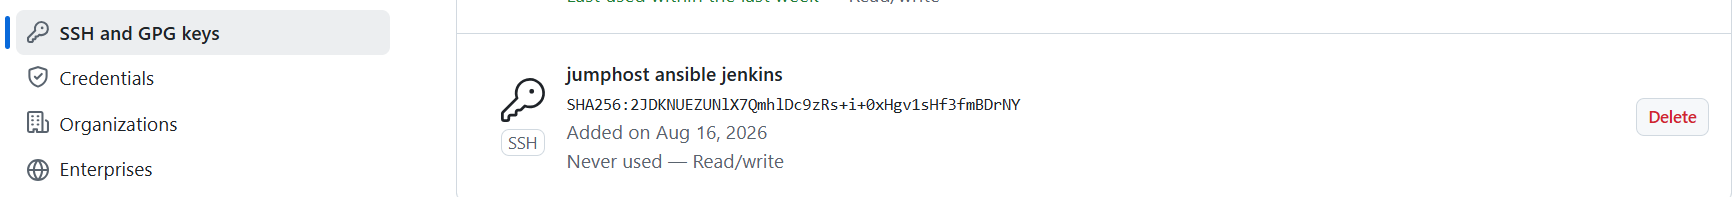
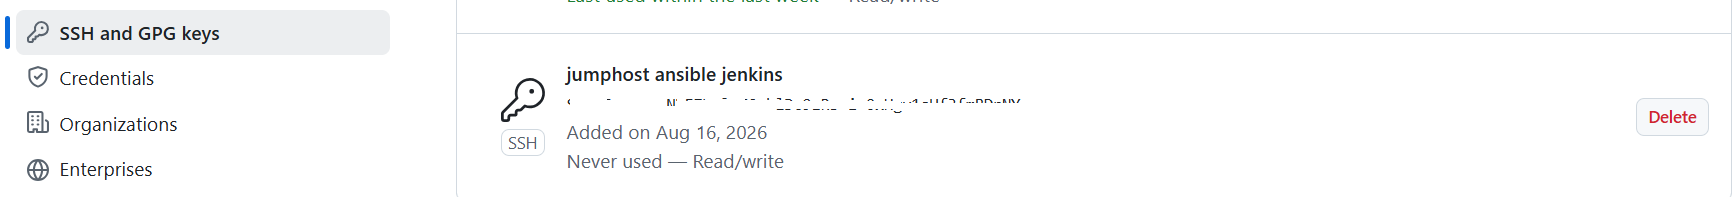
Step 2 and 3 ansible documentation

Changed region(s): [[0.3111, 0.4873, 0.591, 0.5787]]

diff --git a/project11-ansible-config-mgmt/project11-ansible-config-mgmt.md b/project11-ansible-config-mgmt/project11-ansible-config-mgmt.md
@@ -38,45 +38,102 @@ sudo ansible --version
 ![alt](images/3.png)
 
 >[!TIP]
->
+>When installing Ansible with apt or yum, you get the latest Ansible version available in your distribution’s repositories, which is often older than the current upstream release. In contrast, installing Ansible with pip usually gives you the latest stable version published on PyPI, unless you explicitly pin a version.
 
 
+4. Create a new Jenkins Item named ansible that archive the code change
+
+- Create a freestyle project named **ansible**
 
 ![alt](images/4.png)
-
+- Fill in the **Repository URL** and **Credentials**
 ![alt](images/5.png)
-
+- Create a webhook by filling the **Payload URL** , for the moment "Disable SSL verification
 ![alt](images/6.png)
-
+- Set the webhook to trigger ansible build
 ![alt](images/7.png)
-> [!NOTE]
+- Configure a Post-build action that archive all files(**).
+![alt](images/8.png)
+> [!NOTE] pay attention to use (**) as Files to Archive not (*)
 > 
+You will see the ansible item checked in green after the first build integration.
 ![alt](images/9.png)
 
-### Step2 Installing Mysql
+Let’s check the status of the ansible item; it is indicated by #1, showing that it completed successfully.
 
 ![alt](images/10.png)
 
-
+By checking the Console Output, you can verify that the artifact was archived and that the build finished with **SUCCESS**.
 ![alt](images/11.png)
-
+5. You can check /var/lib/jenkins/jobs/ansible/builds/1/archive
+![alt](images/12.png)
+In order to keep a fixed public IP address, we used an Elastic IP.
 ![alt](images/13.png)
+### Step 2 - Prepare your development environment using Visual Studio Code:
+
+1. To improve productivity, we use an integrated development environment
+
+ (IDE). For this bootcamp, our IDE of choice is Visual Studio Code because it:
+
+- Integrates seamlessly with GitHub.
+
+- Works directly with our Debian WSL environment.
+
+- Connects to the jump host over SSH.
+
+- Lets us browse remote files graphically as if they were local.
+
+- Provides an integrated terminal.
+
+- Includes a built-in debugger and interpreter support.
+
+- Allows us to invoke an AI chatbot from within the editor.
 
 
 
-### Step3 Installing PHP
-
+2. We need to allow the jenkins-ansible host to push code to GitHub over SSH. To do this, we add its SSH public key to our GitHub account under Settings → SSH and GPG keys.
 
 ![alt](images/14.png)
-
+3. Clone the ansible-config-mgt.git to the jumphost VM with
+```git
+git clone git@github.com:ilyesbenothmen/ansible-config-mgt.git
+```
+As shown in the image below, we are connected to the jumphost shell through the integrated Terminal.
+>[!Note]
+>the README.md is from the remote repository on Github
 ![alt](images/15.png)
+
+The bottom of the following image indicates that we are successfully connected to the jumphost over SSH
+
+![alt](images/16.png)
+### Step 3 - Begin Ansible Development :
+1. Following GitFlow best practices, we classify branches by purpose: feature/, bugfix/, release/, hotfix/, and so on.
+
+
+2. In this example, we are working on a new feature, so we create and use a feature branch:
+```git
+git checkout -b feature/prj11-ansible
+git fetch
+git checkout feature/prj11-ansible
+```
+At this stage we are working locally on our local repository on the newly created feature/prj11-ansible branch.
+
+![alt](images/17.png)
+
+3. Create a directory and name it playbooks 
+
+4. Create a directory and name it inventory
+
+5. Within playbooks directory , create the first playbook and name it common.yml
+
+6. Winthin the inventory folder , create an inventory file for each environment :  dev ,prod,uat and staging.
+
+![alt](images/18.png)
 
 
 >[!Note]
 >
-
-### Step4 Creating a virtual host for your website using Apache
-
+fffffffffffffffffffffffffffffffffffffffff
 
 
 ![alt](images/19.png)
